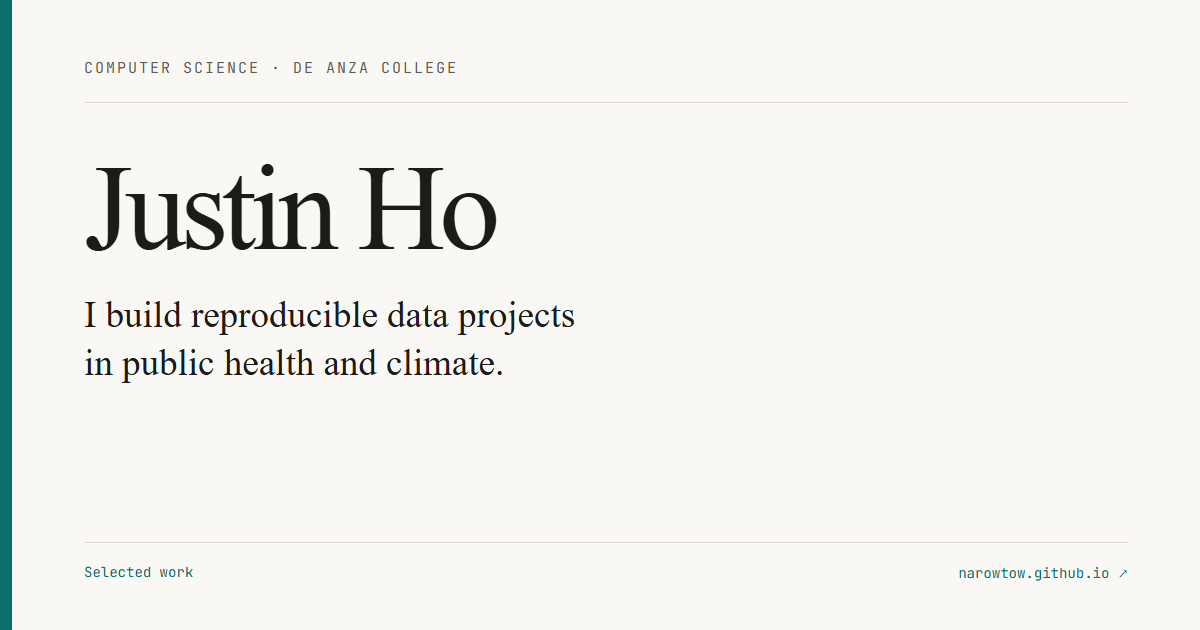
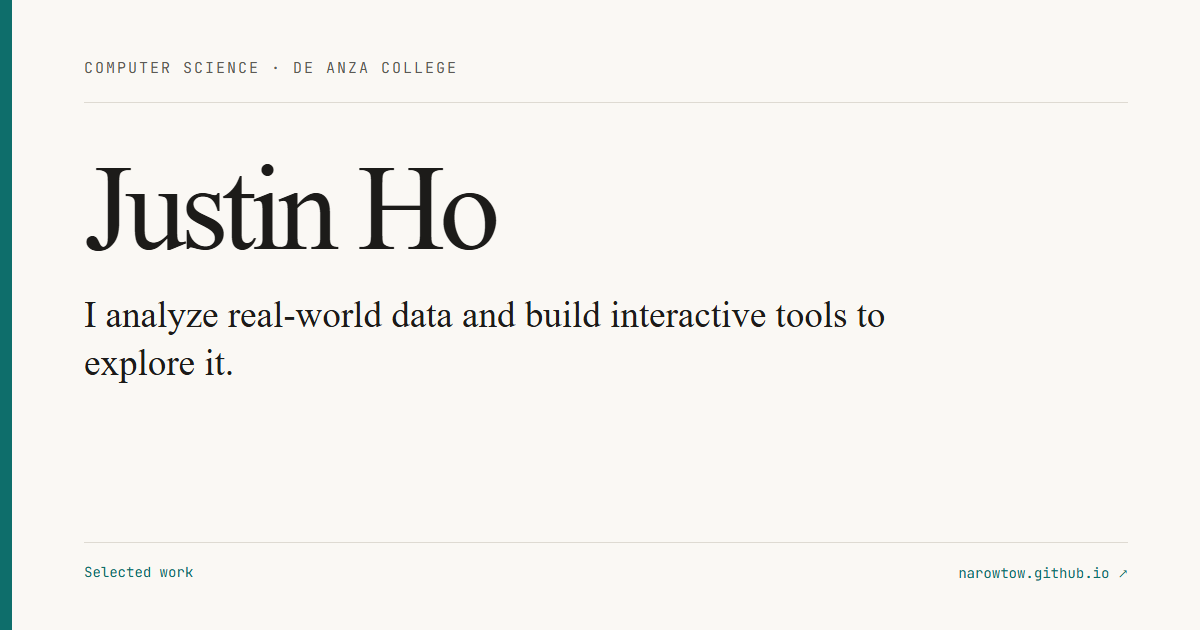
pf-site-r2: hero layout, card link row, dark data contrast, figure plates, topic-neutral headline and OG card

Changed region(s): [[0.0617, 0.4825, 0.74, 0.6032]]

diff --git a/src/styles/global.css b/src/styles/global.css
@@ -150,8 +150,6 @@ li + li {
 .kicker,
 .stack,
 .date,
-.image-note,
-figcaption,
 .chart-source {
   font-family: var(--font-mono);
   font-size: 0.72rem;
@@ -249,8 +247,8 @@ figcaption,
   display: grid;
   grid-template-columns: repeat(12, minmax(0, 1fr));
   gap: 2rem;
-  padding-block: clamp(3rem, 5.5vw, 5rem) 3.5rem;
-  align-items: center;
+  padding-block: 1rem;
+  align-items: start;
 }
 .hero-copy {
   grid-column: span 5;
@@ -299,7 +297,7 @@ figcaption,
   text-decoration: none;
 }
 .hero-evidence {
-  grid-column: 7 / -1;
+  grid-column: 6 / -1;
   padding-left: 1.6rem;
   border-left: 1px solid var(--color-rule);
   min-width: 0;
@@ -308,18 +306,12 @@ figcaption,
   font-size: clamp(1.4rem, 2vw, 1.85rem);
   line-height: 1.25;
   letter-spacing: -0.02em;
-  margin-block: 0.65rem 1.4rem;
+  margin-block: 0.65rem 0.8rem;
   max-width: 36ch;
 }
 .hero-chart {
   width: 100%;
   min-width: 0;
-}
-.hero-chart svg {
-  aspect-ratio: 960 / 500;
-}
-.hero-chart figcaption {
-  margin-top: 0.8rem;
 }
 .chart-source {
   display: inline-flex;
@@ -396,8 +388,7 @@ figcaption,
   margin-top: 0.8rem;
   font-size: 0.82rem;
 }
-.project-links > a,
-.project-links > span > a {
+.project-links > a {
   display: inline-flex;
   align-items: center;
   min-height: 44px;
@@ -406,10 +397,9 @@ figcaption,
 .project-links .strong-link {
   font-weight: 600;
 }
-.project-links small {
-  display: block;
-  max-width: 26ch;
-  font-size: 0.7rem;
+.demo-note {
+  margin-top: 0.15rem;
+  font-size: 0.75rem;
   color: var(--color-muted);
   line-height: 1.5;
 }
@@ -420,14 +410,18 @@ figcaption,
 }
 .project-visual picture {
   display: block;
+  padding: 0.5rem;
   border: 1px solid var(--color-rule);
-  background: var(--color-surface);
+  border-radius: 5px;
+  background: var(--color-figure-plate);
 }
 .project-visual img {
   width: 100%;
 }
 .image-note {
   margin-top: 0.7rem;
+  font: 400 0.8rem/1.6 var(--font-sans);
+  color: var(--color-muted);
 }
 .editorial-section {
   display: grid;
@@ -546,8 +540,8 @@ figcaption,
 }
 .glance-grid {
   display: grid;
-  grid-template-columns: 1fr 1fr 1fr;
-  gap: 3rem;
+  grid-template-columns: minmax(0, 1fr) minmax(0, 1.2fr) minmax(0, 0.9fr);
+  gap: 2rem;
   margin-top: 1.5rem;
   font-size: 0.88rem;
 }
@@ -581,6 +575,13 @@ figcaption,
 .case-cover {
   margin-block: 3rem;
 }
+.case-cover img,
+.prose p > img,
+.prose p > picture {
+  padding: 0.5rem;
+  border-radius: 5px;
+  background: var(--color-figure-plate);
+}
 .case-cover img {
   width: auto;
   max-width: 100%;
@@ -589,6 +590,8 @@ figcaption,
 }
 figcaption {
   margin-top: 0.8rem;
+  font: 400 0.9rem/1.6 var(--font-sans);
+  color: var(--color-muted);
 }
 .case-body {
   display: grid;
@@ -633,7 +636,7 @@ figcaption {
   margin-block: 3rem 1.2rem;
   font-size: 2rem;
 }
-.prose > h2:first-child {
+.prose > :first-child {
   margin-top: 0;
 }
 .prose h3 {
@@ -648,7 +651,8 @@ figcaption {
 .prose p:has(> picture) {
   margin-top: 2rem;
 }
-.prose p > img {
+.prose p > img,
+.prose p > picture {
   width: auto;
   max-width: 100%;
   border: 1px solid var(--color-rule);
@@ -825,6 +829,27 @@ figcaption {
       text-decoration-color 160ms ease;
   }
 }
+/* Bound the desktop evidence panel while retaining the map's projection. */
+@media (min-width: 1060px) {
+  .projects-section > .section-heading {
+    padding-block: 1.2rem;
+  }
+  .hero .hero-chart svg {
+    width: min(100%, 560px);
+    margin-inline: auto;
+  }
+  .hero .hero-chart .chart-toolbar {
+    min-height: 50px;
+  }
+  .hero .hero-chart .chart-legend {
+    margin-block: 0.5rem;
+  }
+  .hero .hero-chart .chart-readout {
+    min-height: 3.5rem;
+    margin-block: 0.5rem;
+    padding: 0.5rem 0.75rem;
+  }
+}
 @media (max-width: 1050px) {
   .site-header {
     gap: 1.1rem;
@@ -839,6 +864,7 @@ figcaption {
     grid-column: span 6;
   }
   .hero-evidence {
+    grid-column: 7 / -1;
     padding-left: 1rem;
   }
   .prose {
@@ -850,7 +876,7 @@ figcaption {
 }
 @media (max-width: 759px) {
   .wrapper {
-    width: calc(100% - 40px);
+    width: calc(100% - 32px);
   }
   .site-header {
     display: grid;
@@ -885,6 +911,10 @@ figcaption {
   }
   .hero h1 {
     font-size: clamp(3.8rem, 16vw, 5.6rem);
+  }
+  .hero-actions .button {
+    flex: 1;
+    gap: 1rem;
   }
   .hero-positioning {
     font-size: 1.7rem;

diff --git a/src/styles/tokens.css b/src/styles/tokens.css
@@ -3,6 +3,7 @@
 :root {
   --color-bg: #faf8f4;
   --color-surface: #ffffff;
+  --color-figure-plate: #faf8f4;
   --color-ink: #1c1b19;
   --color-muted: #5c5a55;
   --color-rule: #dedad2;
@@ -36,8 +37,8 @@
     --color-data-pos: #68b9ad;
     --color-data-pos-strong: #a0dfcf;
     --color-data-neg: #db9676;
-    --color-data-zero: #777064;
-    --color-data-land: #35352f;
+    --color-data-zero: #a39c8d;
+    --color-data-land: #414039;
     --color-data-grid: #56544c;
     --color-button-ink: #172622;
     color-scheme: dark;
@@ -54,8 +55,8 @@
   --color-data-pos: #68b9ad;
   --color-data-pos-strong: #a0dfcf;
   --color-data-neg: #db9676;
-  --color-data-zero: #777064;
-  --color-data-land: #35352f;
+  --color-data-zero: #a39c8d;
+  --color-data-land: #414039;
   --color-data-grid: #56544c;
   --color-button-ink: #172622;
   color-scheme: dark;

diff --git a/tests/e2e/site.spec.ts b/tests/e2e/site.spec.ts
@@ -137,7 +137,7 @@ test("without JavaScript the home is readable with contact and system theme", as
   ).toBeVisible();
   await expect(
     page.getByText(
-      "I build reproducible data projects in public health and climate.",
+      "I analyze real-world data and build interactive tools to explore it.",
     ),
   ).toBeVisible();
   await expect(page.locator(".project-card")).toHaveCount(2);

diff --git a/playwright.config.ts b/playwright.config.ts
@@ -4,7 +4,7 @@
 // Run after `astro build`: `npx playwright test --project=unit` / `--project=e2e`.
 import { defineConfig, devices } from "@playwright/test";
 
-const PORT = 4321;
+const PORT = Number(process.env.PORTFOLIO_TEST_PORT ?? 4321);
 
 export default defineConfig({
   forbidOnly: !!process.env.CI,

diff --git a/README.md b/README.md
@@ -1,6 +1,8 @@
 # Justin Ho’s portfolio
 
-A static portfolio for a De Anza College Computer Science student, presenting reproducible projects in public health and climate.
+A static portfolio for Justin Ho, a De Anza College Computer Science student.
+
+“I analyze real-world data and build interactive tools to explore it.”
 
 Built with Astro, TypeScript, Markdown collections, plain CSS, and self-hosted Source Serif 4, Inter, and JetBrains Mono. Pages work without JavaScript; theme selection, email copy, and optional demos progressively enhance them.
 
